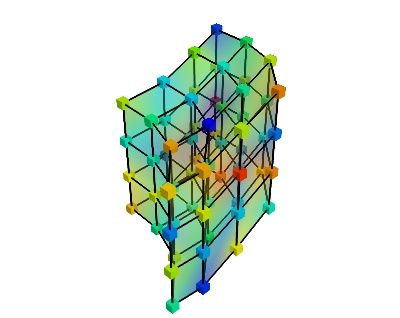
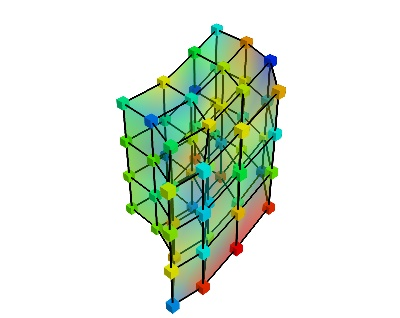
DOC: document the more complex data structures

Changed region(s): [[0.27, 0.0566, 0.72, 0.9906]]

diff --git a/doc/users/datasets/viz_volume_grid.py b/doc/users/datasets/viz_volume_grid.py
@@ -1,0 +1,34 @@
+"""
+Use Mayavi to visualize the structure of a VolumeGrid
+"""
+
+from enthought.mayavi import mlab
+import numpy as np
+
+from enthought.tvtk.api import tvtk
+
+dims = (4, 4, 4)
+x, y, z = np.mgrid[0.:dims[0], 0:dims[1], 0:dims[2]]
+x = np.reshape(x.T, (-1,))
+y = np.reshape(y.T, (-1,))
+z = np.reshape(z.T, (-1,))
+y += 0.3*np.sin(x)
+z += 0.4*np.cos(x)
+x += 0.05*y**3 
+sgrid = tvtk.StructuredGrid(dimensions=(dims[0], dims[1], dims[2]))
+sgrid.points = np.c_[x, y, z]
+s = np.random.random((dims[0]*dims[1]*dims[2]))
+sgrid.point_data.scalars = np.ravel(s.copy())
+sgrid.point_data.scalars.name = 'scalars'
+
+mlab.figure(1, fgcolor=(0, 0, 0), bgcolor=(1, 1, 1))
+mlab.clf()
+
+mlab.pipeline.surface(sgrid, opacity=0.4)
+mlab.pipeline.surface(mlab.pipeline.extract_edges(sgrid), color=(0, 0, 0))
+mlab.pipeline.glyph(sgrid, mode='cube', scale_factor=0.2, scale_mode='none')
+mlab.savefig('volume_grid.jpg')
+mlab.show()
+
+
+

diff --git a/doc/users/datasets/viz_volume_data.py b/doc/users/datasets/viz_volume_data.py
@@ -1,0 +1,23 @@
+"""
+Use Mayavi to visualize the structure of a VolumeData
+"""
+
+from enthought.mayavi import mlab
+import numpy as np
+
+x, y, z, s = np.random.random((4, 20))
+
+mlab.figure(1, fgcolor=(0, 0, 0), bgcolor=(1, 1, 1))
+mlab.clf()
+
+src = mlab.pipeline.scalar_scatter(x, y, z, s)
+sgrid = mlab.pipeline.delaunay3d(src)
+
+mlab.pipeline.surface(sgrid, opacity=0.4)
+mlab.pipeline.surface(mlab.pipeline.extract_edges(sgrid), color=(0, 0, 0))
+mlab.pipeline.glyph(sgrid, mode='cube', scale_factor=0.05, scale_mode='none')
+mlab.savefig('volume_data.jpg')
+mlab.show()
+
+
+

diff --git a/doc/users/datasets/viz_volume_field.py b/doc/users/datasets/viz_volume_field.py
@@ -1,0 +1,31 @@
+"""
+Use Mayavi to visualize the structure of a VolumeData
+"""
+
+from enthought.mayavi import mlab
+import numpy as np
+
+s = np.random.random((5, 5, 5))
+
+# Put the side at 0 
+
+s[0, ...]  = 0
+s[-1, ...] = 0
+s[:, 0, :] = 0
+s[:, -1, :] = 0
+s[..., 0] = 0
+s[..., -1] = 0
+
+mlab.figure(1, fgcolor=(0, 0, 0), bgcolor=(1, 1, 1))
+mlab.clf()
+
+src = mlab.pipeline.scalar_field(s)
+
+mlab.pipeline.volume(src, vmin=0, vmax=0.9)
+# We save as a different filename than the one used, as we modify the
+# curves.
+mlab.savefig('volume_field_raw.jpg')
+mlab.show()
+
+
+

diff --git a/doc/users/datasets.rst b/doc/users/datasets.rst
@@ -3,50 +3,87 @@
 Volumetrique data structures
 =============================
 
+Volumetric data structures expose numerical values embedded in a world
+space. For instance, a volume could expose the T1 intensity, as acquired
+in scanner space, or the BOLD signal in MNI152 template space. The values
+can be multi-dimensional, in the case of a BOLD signal, the fMRI signal
+would correspond to a time series at each position in world space.
+
 .. currentmodule:: nipy.datasets.volumes.volume_img
 
-The image structure: `VolumeImg`
-==================================
+The image structure: :class:`VolumeImg`
+=======================================
 
-The structure most often used in neuroimaging is the
-:class:`VolumeImg`. It corresponds to the structure used in the Nifti
-files.
+The structure most often used in neuroimaging is the :class:`VolumeImg`.
+It corresponds, for instance, to the structure used in the Nifti files.
 
-We call a volume-image (`VolumeImg`) a volumetric datastructure given by
-data points lying on a regular grid: this structure is a generalization
-of an image in 3D. The voxels, vertices of the grid, are mapped to
-coordinnate by an affine transformation. As a results, the grid is
-regular and evenly-spaced, but may not be orthogonal, and the spacing ma
-differ in the 3 directions.
+We call a volume-image (class: :class:`VolumeImg`) a volumetric
+datastructure given by data points lying on a regular grid: this
+structure is a generalization of an image in 3D. The voxels, vertices of
+the grid, are mapped to coordinnates by an affine transformation. As a
+result, the grid is regular and evenly-spaced, but may not be
+orthogonal, and the spacing may differ in the 3 directions.
 
 .. image:: datasets/volume_img.jpg
 
-Class :class:`VolumeImg`: methods and attributes
---------------------------------------------------
+The data is exposed in a multi dimensional array, with the 3 first axis
+corresponding to spatial directions. A complete description of this
+object can be found on the page: :class:`VolumeImg`.
 
-.. autoclass:: VolumeImg
-  :members:
-  :undoc-members:
-  :show-inheritance:
-  :inherited-members:
-
-  .. automethod:: __init__
 
 More general data structures
 ===============================
 
+The :class:`VolumeImg` is the most commonly found data structure, and the
+simplest to understand, however, volumetric data can be described in more
+generic terms, and for performance reason it might be interesting to use
+other objects.
+
+Here, we give a list of the nipy volumetric data structures, from most
+specific, to most general.
+
+.. currentmodule:: nipy.datasets.volumes.volume_grid
+
 :class:`VolumeGrid`
-----------------------
+  In a :class:`VolumeGrid`, the data points are sampled on a 3D grid, but
+  unlike for a :class:`VolumeImg`, grid may not be regular. For instance,
+  it can be a grid that has been warped by a non-affine transformation.
+  Like with the :class:`VolumeImg`, the data is exposed in a multi
+  dimensional array, with the 3 first axis corresponding to spatial
+  directions.
 
-.. image:: datasets/volume_grid.jpg
+  .. image:: datasets/volume_grid.jpg
 
-.. autoclass:: VolumeGrid
-  :members:
-  :undoc-members:
-  :show-inheritance:
-  :inherited-members:
+  .. currentmodule:: nipy.datasets.volumes.volume_data
 
-  .. automethod:: __init__
+:class:`VolumeData`
+  In this volumetric structure, the data is sampled for some points in
+  the world space. The object knows how to interpolate between these
+  points. The underlying values are stored in a multidimensional array-like 
+  object that can be indexed and sliced.
+
+  .. image:: datasets/volume_data.jpg
+
+  This is an abstract base class: it defines an interface, but is not
+  fully functional, and can be used only via its children class (such as
+  :class:`VolumeGrid` or :class:`VolumeImg`).
+
+  .. currentmodule:: nipy.datasets.volumes.volume_field
+
+
+:class:`VolumeField`
+  This is the most general volumetric structure (base class): all the
+  nipy volume expose this interface. This structure does not make any
+  assumptions on how the values are internal represented, they may, for
+  instance, be represented as a function, rather than as data points, or
+  as a data structure that is not an array, such as a graph.
+
+  .. image:: datasets/volume_field.jpg
+
+  This is also an abstract base class: it defines the core nipy
+  volumetric data structure interface: you can rely on all the methods
+  documented for this class in any nipy data structure.
+
 
 
 Creating your own structures
